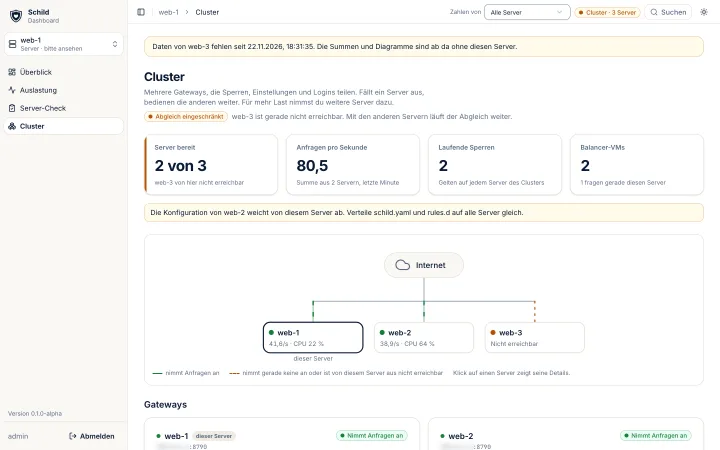
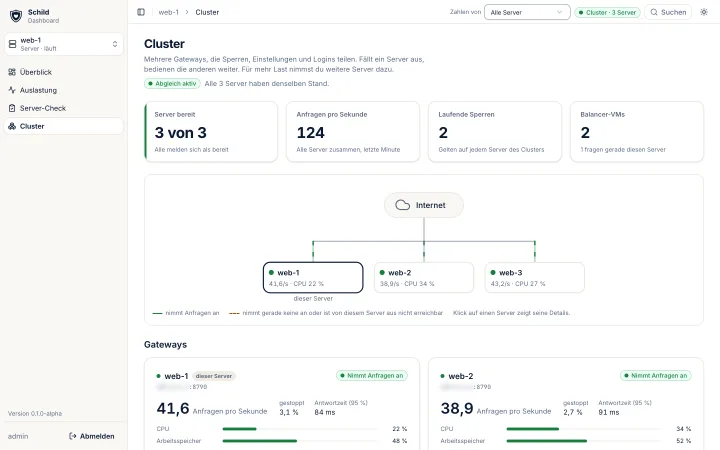
Website: the cluster page and a server's details are shown with every server in order; the hints keep the case of a missing server

diff --git a/dashboard/apps/client-dashboard/src/mock/data.ts b/dashboard/apps/client-dashboard/src/mock/data.ts
@@ -47,8 +47,8 @@ import { createRulesState } from './rules'
  * standalone: a gateway that started a few hours ago and cannot reach the CrowdSec Hub. observe: the test
  * profile, in which nothing is blocked (D89: there is no protection mode).
  */
-export type Scenario = 'default' | 'observe' | 'first-run' | 'login' | 'degraded' | 'empty' | 'error' | 'standalone' | 'group' | 'group-large'
-export const SCENARIOS: Scenario[] = ['default', 'observe', 'first-run', 'login', 'degraded', 'empty', 'error', 'standalone', 'group', 'group-large']
+export type Scenario = 'default' | 'observe' | 'first-run' | 'login' | 'degraded' | 'empty' | 'error' | 'standalone' | 'group' | 'group-ok' | 'group-large'
+export const SCENARIOS: Scenario[] = ['default', 'observe', 'first-run', 'login', 'degraded', 'empty', 'error', 'standalone', 'group', 'group-ok', 'group-large']
 
 /** What the gateway does with a decision, as the server derives it (D89): the test profile only observes. */
 export function gatewayMode(s: Pick<Settings, 'profile'>): Mode {
@@ -250,6 +250,32 @@ function largeGroup(base: GroupStatus): GroupStatus {
     return { ...m, vitals: { ...peer!.vitals!, service, requests_per_s: service === 'ready' ? 30 + ((k * 37) % 23) : 0, cpu_usage: ((k * 17) % 70 + 12) / 100, memory_used_ratio: ((k * 29) % 55 + 30) / 100, disk_used_ratio: ((k * 13) % 40 + 25) / 100 } }
   })
   return { ...base, state: 'degraded', members: [...members, ...base.members!.filter(m => m.role === 'edge')], config: { version: base.config!.version, differing: [] } }
+}
+
+/** The same cluster with nothing to look at: every gateway reached, ready, in step and configured alike. */
+function healthyGroup(base: GroupStatus): GroupStatus {
+  const peer = base.members!.find(m => m.role === 'gateway' && m.state === 'ok')!
+  const same = { blocks: 'same', settings: 'same', access: 'same', logins: 'same' } as const
+  const load: Record<string, [number, number, number, number]> = { 'web-2': [38.9, 0.34, 0.52, 0.41], 'web-3': [43.2, 0.27, 0.46, 0.39] }
+  const members = base.members!.filter(m => m.state !== 'removed').map((m) => {
+    if (m.role !== 'gateway') return m
+    if (m.state === 'self') return { ...m, config: 'same' as const }
+    const [rps, cpu, memory, disk] = load[m.name] ?? [40, 0.3, 0.5, 0.4]
+    return {
+      ...m,
+      state: 'ok' as const,
+      error: undefined,
+      last_out: peer.last_out,
+      last_in: peer.last_in,
+      behind: 0,
+      version: peer.version,
+      config: 'same' as const,
+      clock_skew_ms: 120,
+      shared_state: same,
+      vitals: { ...peer.vitals!, requests_per_s: rps, cpu_usage: cpu, memory_used_ratio: memory, disk_used_ratio: disk },
+    }
+  })
+  return { ...base, state: 'active', members, config: { version: base.config!.version, differing: [] } }
 }
 
 function shiftTimes<T>(value: T, delta: number): T {
@@ -478,8 +504,8 @@ export function createState(opts: CreateStateOptions = {}): MockState {
     manualBlocks: [],
     monitoring: createMonitoringState(scenario, t0, mode === 'observe'),
     // The fixture is written around 14:05:30 of its day; shifted so its contacts are seconds old.
-    group: scenario === 'group' || scenario === 'group-large'
-      ? shiftTimes(scenario === 'group' ? groupFixture as GroupStatus : largeGroup(groupFixture as GroupStatus), t0 - Date.parse(groupFixture.generated_at))
+    group: scenario === 'group' || scenario === 'group-ok' || scenario === 'group-large'
+      ? shiftTimes(scenario === 'group' ? groupFixture as GroupStatus : scenario === 'group-ok' ? healthyGroup(groupFixture as GroupStatus) : largeGroup(groupFixture as GroupStatus), t0 - Date.parse(groupFixture.generated_at))
       : { mode: 'single' },
     agentApi: createAgentApiState(scenario, t0),
   }

diff --git a/site/app/pages/funktionen.vue b/site/app/pages/funktionen.vue
@@ -9,7 +9,8 @@ import { SHOTS_DATE } from '~/utils/shots'
 // Screenshots: retaken with `npm run shots` (site/scripts/shots.mjs), dashboard in mock mode at 1440×900; block page and login
 // page are the HTML the gateway serves (gateway/internal/blockpage, gateway/internal/accesslock). IP addresses are
 // blurred at capture time: they are documentation addresses, but a reader cannot tell that from the picture.
-// The cluster example uses the mock scenario `group` (three gateways, one not reached). The cluster is experimental and
+// The cluster example shows three gateways: the page and a server's details with everything in order (mock scenario
+// `group-ok`), the hints with one gateway not reached (`group`). The cluster is experimental and
 // in no release yet (docs/gateway/03-cluster.md): the section says so, and it claims only what that guide states.
 
 useHead({ title: 'Funktionen – Deutschland-Schild' })
@@ -84,15 +85,15 @@ const clusterShots: DashboardShot[] = [
     summary: 'Alle Server auf einen Blick',
     text: 'Die Seite „Cluster“ zeigt jeden Server unter dem Internet: ob er Anfragen annimmt, wie viele er gerade bedient und wie ausgelastet er ist. Darüber stehen die Summen aller Server.',
     benefit: 'Oben wählst du, ob Zahlen und Diagramme alle Server zusammen zeigen oder einen einzelnen.',
-    alt: 'Schild Dashboard, Seite Cluster: Abgleich eingeschränkt, 2 von 3 Servern bereit, 80,5 Anfragen pro Sekunde, 2 laufende Sperren. Darunter eine Karte mit dem Internet und den drei Servern web-1, web-2 und web-3; web-3 ist nicht erreichbar. Oben die Auswahl „Zahlen von: Alle Server“ und der Hinweis, dass Daten von web-3 fehlen. Testdaten.',
+    alt: 'Schild Dashboard, Seite Cluster: Abgleich aktiv, alle 3 Server haben denselben Stand. 3 von 3 Servern bereit, 124 Anfragen pro Sekunde, 2 laufende Sperren. Darunter eine Karte mit dem Internet und den drei Servern web-1, web-2 und web-3, die alle Anfragen annehmen. Oben die Auswahl „Zahlen von: Alle Server“. Testdaten.',
   },
   {
     src: '/img/dashboards/funktionen-cluster-server.webp',
     title: '2. Ein Server',
     summary: 'Die Details eines Servers',
     text: 'Ein Klick auf einen Server öffnet seine Details: Auslastung, Start, letzter Kontakt, Version, Uhr und ob sein Stand mit dem dieses Servers übereinstimmt.',
-    benefit: 'Du siehst, welcher Server abweicht, ohne dich auf jedem einzeln anzumelden.',
-    alt: 'Schild Dashboard, Details des Servers web-2: nimmt Anfragen an, 38,9 Anfragen pro Sekunde, CPU 64 %, Arbeitsspeicher 83 %, Festplatte 41 %, gestartet vor 5 Stunden, letzter Kontakt gerade eben, Uhr gleich, Konfiguration weicht ab. IP-Adresse unkenntlich gemacht. Testdaten.',
+    benefit: 'Weicht ein Server ab, siehst du das hier, ohne dich auf jedem einzeln anzumelden.',
+    alt: 'Schild Dashboard, Details des Servers web-2: nimmt Anfragen an, 38,9 Anfragen pro Sekunde, CPU 34 %, Arbeitsspeicher 52 %, Festplatte 41 %, gestartet vor 5 Stunden, letzter Kontakt gerade eben, Uhr, Stand und Konfiguration gleich. IP-Adresse unkenntlich gemacht. Testdaten.',
   },
   {
     src: '/img/dashboards/funktionen-cluster-hinweis.webp',

diff --git a/dashboard/apps/client-dashboard/src/mock/browser.ts b/dashboard/apps/client-dashboard/src/mock/browser.ts
@@ -1,6 +1,6 @@
 /**
  * Mock mode bootstrap (pnpm dev:mock / e2e). Loaded only when VITE_MOCK=true, never in production builds.
- * Scenario via URL (before the hash): ?scenario=default|observe|review|first-run|login|degraded|empty|error|standalone|group|group-large
+ * Scenario via URL (before the hash): ?scenario=default|observe|review|first-run|login|degraded|empty|error|standalone|group|group-ok|group-large
  * Without the request ring (MVP-22): ?ring=off.
  * The choice sticks for the browser tab (sessionStorage) so reloads keep it.
  */
